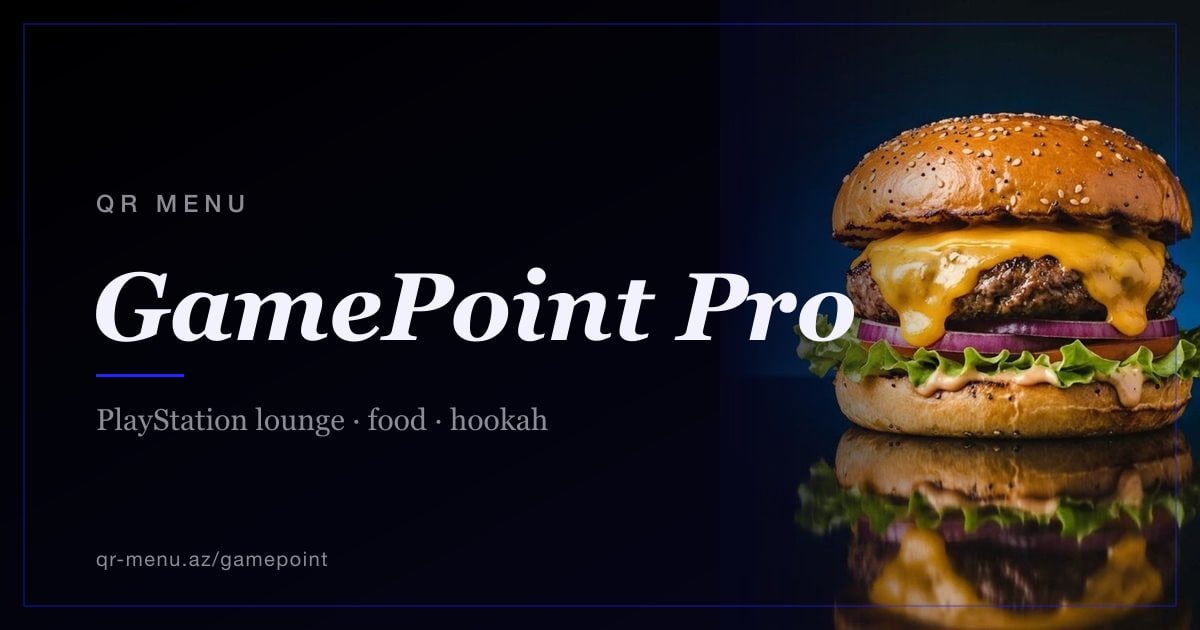
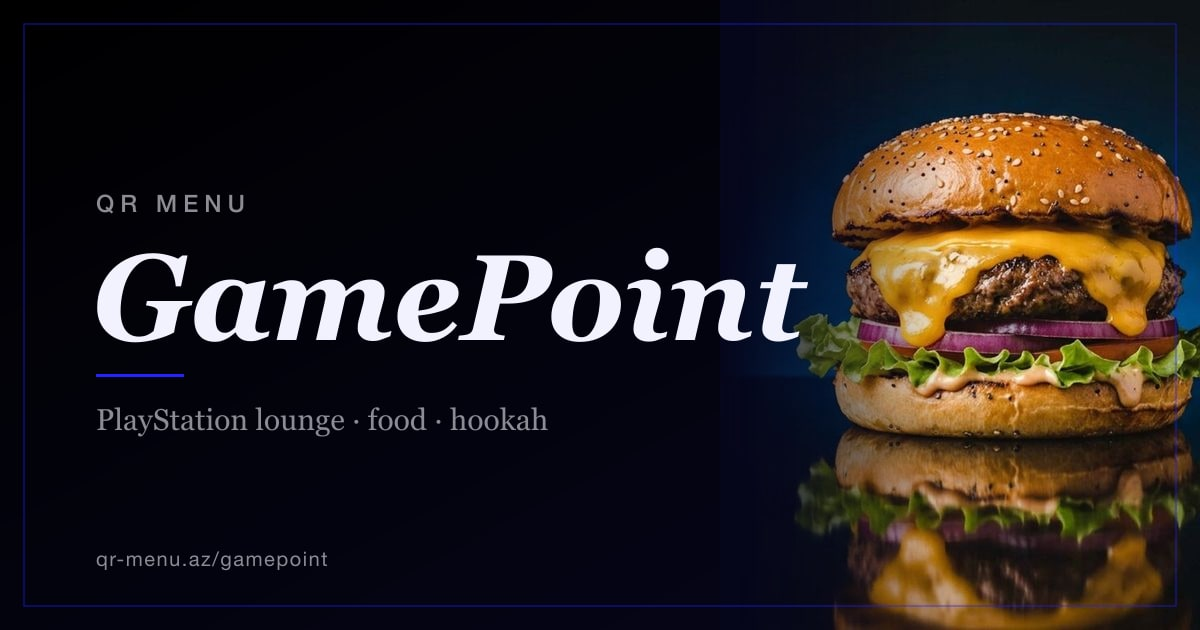
Open the second GamePoint
A second venue under the same brand: the same menu, the same theme, without
the spirits section, and with sets that run three hours instead of two.

The two swap addresses so each matches its name. GamePoint Pro held
/gamepoint from when it was the only one; it moves to /gamepoint-pro and the
plain GamePoint takes /gamepoint. Nothing had been printed yet, which is the
only moment this is free.

clone-restaurant.mjs does the copying, because doing it by hand means
re-entering ninety dishes and re-picking every colour, and the two menus
drift apart the first time either is edited. It takes --skip-category for a
section a venue does not serve and --replace with --replace-in for a phrase
that differs in one category only — here "2 saat" becomes "3 saat", but in
Setlər alone, since the same words appear in sets that are unchanged.

Photos are shared, not duplicated: both point at the same files. They are the
same dishes, photographed once, and two copies would only be two things to
keep in step.

Araxis and Fıstıq had each other's photograph — arachis is the peanut, and
the peanuts were filed under the pistachios. Swapped.

Both restaurants get a preview card, since the addresses moved and the cards
are keyed by slug.

Changed region(s): [[0.0617, 0.3921, 0.7092, 0.5429]]

diff --git a/src/app/[slug]/page.tsx b/src/app/[slug]/page.tsx
@@ -24,7 +24,7 @@ type Params = {
 // Restaurants with a hand-made 1200x630 card in public/images/og. Without one
 // the preview falls back to a dish photo, and a dish photo is whichever sorts
 // first — GamePoint's link previewed as a bowl of popcorn until it got a card.
-const OG_BANNER_SLUGS = new Set(["lumiere", "gamepoint"]);
+const OG_BANNER_SLUGS = new Set(["lumiere", "gamepoint", "gamepoint-pro"]);
 
 type LoadedMenu = {
   restaurant: MenuRestaurant | null;
